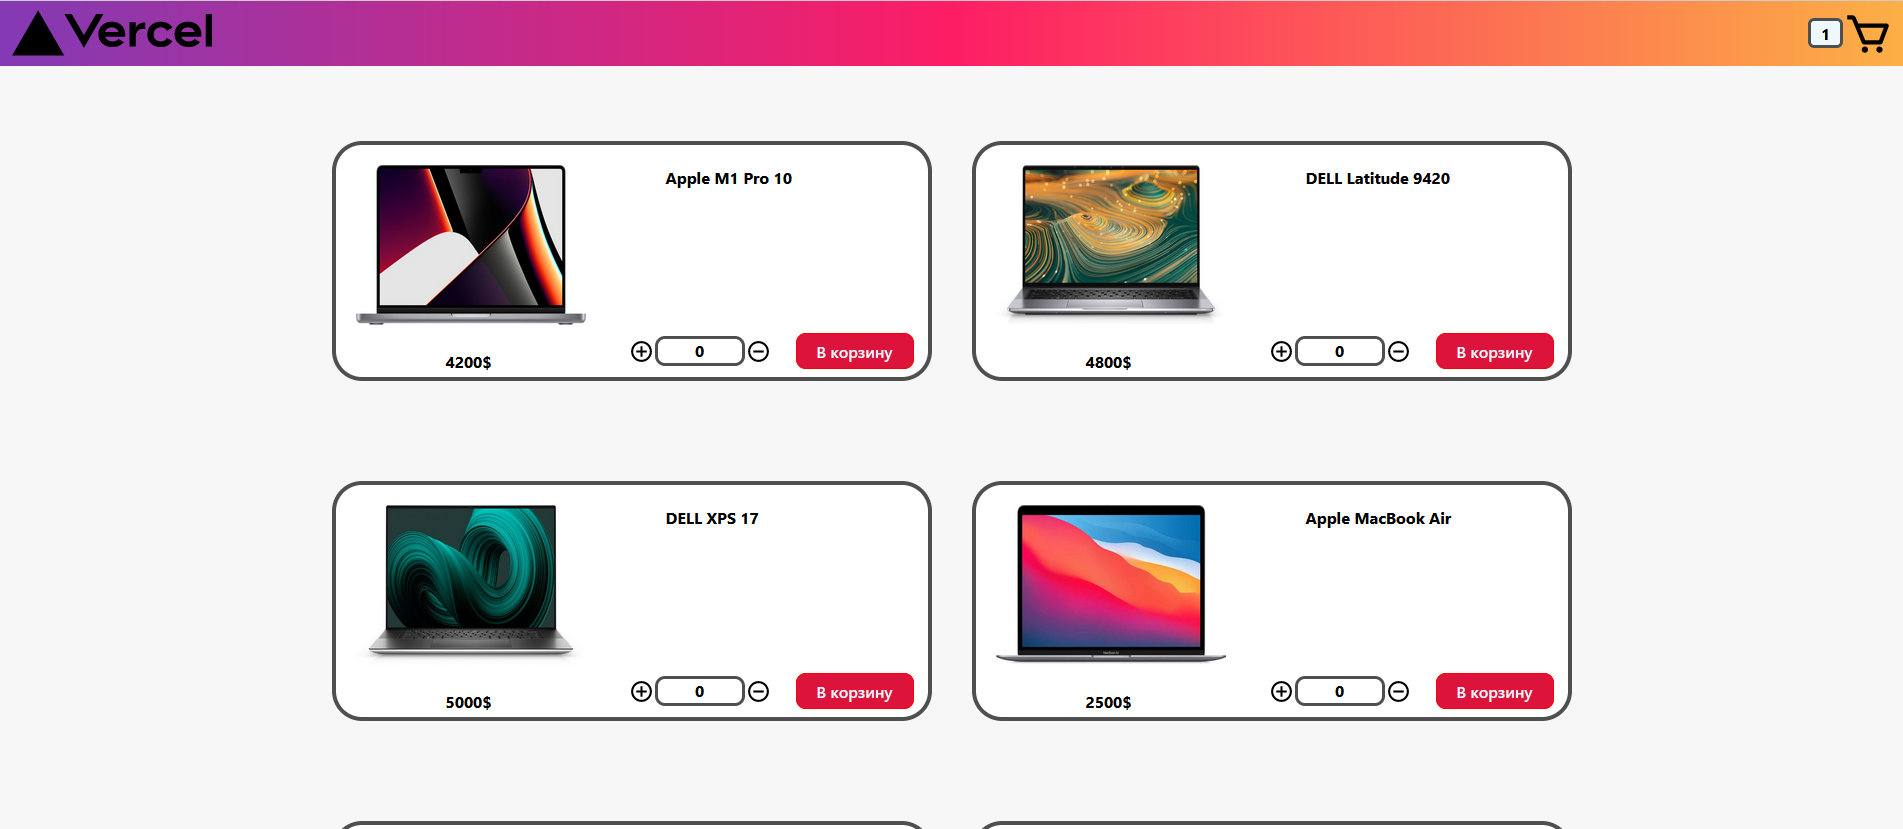
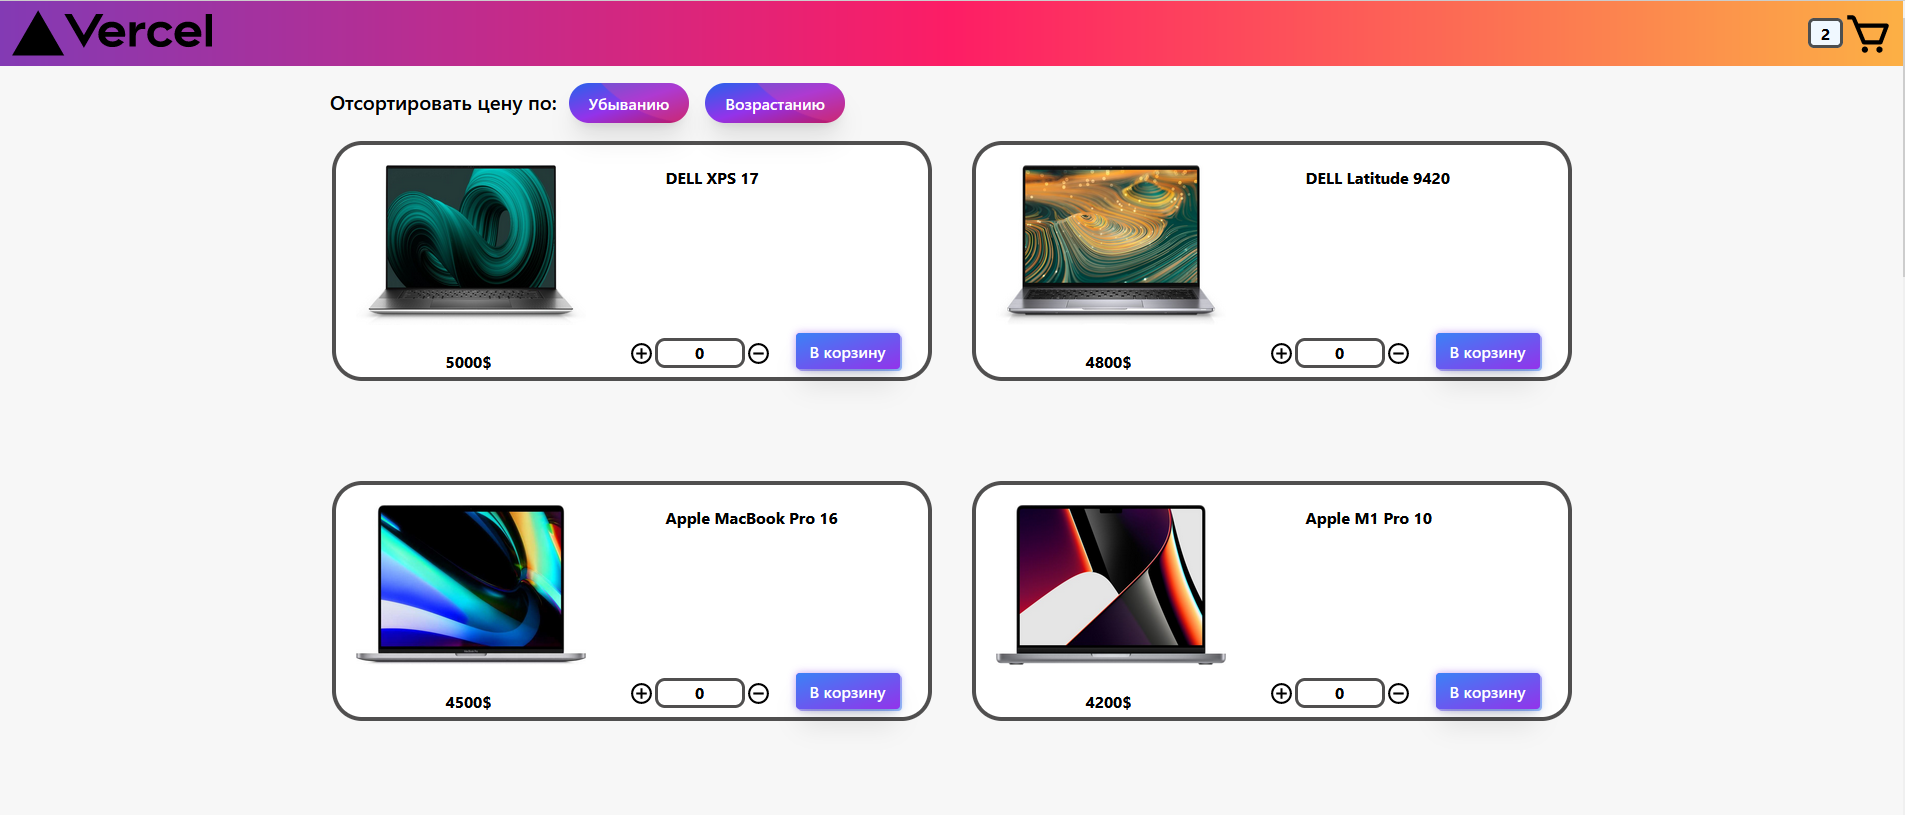
redesign

diff --git a/src/components/Header/Header.tsx b/src/components/Header/Header.tsx
@@ -20,28 +20,46 @@ const Header: FC = () => {
   const total: number = cart.reduce((acc, item) => acc + item.price * item.count, 0)
 
   return (
-    <div className='header-wrap'>
-      <div className='header-logo-wrap'>
-        <img src={logoImg} alt="logo"/>
+    <div className="header-wrap">
+      <div className="header-logo-wrap">
+        <img src={logoImg} alt="logo" />
       </div>
-      <button onClick={() => {setIsCartShow(!isCartShow)}} className='cartBtn'>
-        <img src={cartImg}/>
-        <div className='cart-length'>{cart.length}</div>
+      <button
+        onClick={() => {
+          setIsCartShow(!isCartShow);
+        }}
+        className="cartBtn"
+      >
+        <img src={cartImg} />
+        <div className="cart-length">{cart.length}</div>
       </button>
       <div className={isCartShow ? "hidden" : "active-cart"}>
         {cart.map((item) => (
           <div key={`cart item ${item.name}`} className="cart-items">
             <div className="cart-name">{item.name}</div>
             <div className="cart-img">
-              <img
-                src={item.imagePath}
-                alt={item.name}/>
+              <img src={item.imagePath} alt={item.name} />
             </div>
-            <div className='cart-count'>{`${item.price}$ x ${item.count}`}</div>
-            <button onClick={() => removeHandler(item._id)} className='cart-delete-btn'>Удалить</button>
+            <div className="cart-count">{`${item.price}$ x ${item.count}`}</div>
+            <button
+              onClick={() => removeHandler(item._id)}>
+              <a
+                href="#_"
+                className="relative left-2 bottom-2.5 px-4 py-1 font-semibold text-white group">
+                <span className="absolute inset-0 w-full h-full transition-all duration-300 ease-out transform translate-x-0 -skew-x-12 bg-purple-500 group-hover:bg-purple-700 group-hover:skew-x-12"></span>
+                <span className="absolute inset-0 w-full h-full transition-all duration-300 ease-out transform skew-x-12 bg-purple-700 group-hover:bg-purple-500 group-hover:-skew-x-12"></span>
+                <span className="absolute bottom-0 left-0 hidden w-10 h-20 transition-all duration-100 ease-out transform -translate-x-8 translate-y-10 bg-purple-600 -rotate-12"></span>
+                <span className="absolute bottom-0 right-0 hidden w-10 h-20 transition-all duration-100 ease-out transform translate-x-10 translate-y-8 bg-purple-400 -rotate-12"></span>
+                <span className="relative">Удалить</span>
+              </a>
+            </button>
           </div>
         ))}
-        <div className={isCartShow || cart.length == 0 ? "hidden" : 'total-cart'}>Итого: {total}$</div>
+        <div
+          className={isCartShow || cart.length == 0 ? "hidden" : "total-cart"}
+        >
+          Итого: {total}$
+        </div>
       </div>
     </div>
   );

diff --git a/src/components/Content/Content.tsx b/src/components/Content/Content.tsx
@@ -24,22 +24,23 @@ const Content:FC = () => {
     <>
       <div className="content-wrap">
         <div className="sort-btn-wrapper">
+          <span className='relative bottom-2 font-semibold text-xl mr-3'>Отсортировать цену по:</span>
           <button onClick={() => sortPriceHandler(content)} className='relative bottom-3'>
             <a
               href="#_"
-              className="font-semibold relative inline-flex items-center justify-center p-4 px-5 py-3 overflow-hidden text-indigo-600 transition duration-300 ease-out rounded-full shadow-xl group hover:ring-1 hover:ring-purple-500">
+              className="font-semibold leading-4 top-1 relative inline-flex items-center justify-center p-4 px-5 py-3 overflow-hidden text-indigo-600 transition duration-300 ease-out rounded-full shadow-xl group hover:ring-1 hover:ring-purple-500">
               <span className="absolute inset-0 w-full h-full bg-gradient-to-br from-blue-600 via-purple-600 to-pink-700"></span>
               <span className="absolute bottom-0 right-0 block w-64 h-64 mb-32 mr-4 transition duration-500 origin-bottom-left transform rotate-45 translate-x-24 bg-pink-500 rounded-full opacity-30 group-hover:rotate-90 ease"></span>
-              <span className="relative text-white">По убыванию</span>
+              <span className="relative text-white">Убыванию</span>
             </a>
           </button>
           <button onClick={() => sortLowerPriceHandler(content)} className='relative bottom-3 ml-4 '>
             <a
               href="#_"
-              className="font-semibold relative inline-flex items-center justify-center p-4 px-5 py-3 overflow-hidden text-indigo-600 transition duration-300 ease-out rounded-full shadow-xl group hover:ring-1 hover:ring-purple-500">
+              className="font-semibold leading-4 top-1 relative inline-flex items-center justify-center p-4 px-5 py-3 overflow-hidden text-indigo-600 transition duration-300 ease-out rounded-full shadow-xl group hover:ring-1 hover:ring-purple-500">
               <span className="absolute inset-0 w-full h-full bg-gradient-to-br from-blue-600 via-purple-600 to-pink-700"></span>
               <span className="absolute bottom-0 right-0 block w-64 h-64 mb-32 mr-4 transition duration-500 origin-bottom-left transform rotate-45 translate-x-24 bg-pink-500 rounded-full opacity-30 group-hover:rotate-90 ease"></span>
-              <span className="relative text-white ">По возрастанию</span>
+              <span className="relative text-white ">Возрастанию</span>
             </a>
           </button>
         </div>

diff --git a/src/components/Header/Header.css b/src/components/Header/Header.css
@@ -53,16 +53,18 @@
 
 .cart-img {
   margin-top: 10px;
-  width: 50px;
-  height: 50px;
+  width: 70px;
 }
 
 .cart-items {
   position: relative;
-  top: 79px;
-  padding: 0px 25px;
-  border-radius: 6px;
-  box-shadow: 4px 0px 4px #a9a5a590;
+  top: 65px;
+  width: 180px;
+  border: 3px solid rgba(42, 42, 42, 0.819);
+  border-radius: 10px;
+  background-color: #fff;
+  padding: 0px 2px;
+  margin-bottom: 3px;
 }
 
 .cart-name {
@@ -77,21 +79,21 @@
   background-color: #fff;
   width: 137px;
   position: relative;
-  top: 70px;
-  left: 34px;
+  top: 65px;
 }
 
 .cart-count {
   position: relative;
-  left: 50px;
-  bottom: 50px;
-  font-weight: 600;
+  left: 75px;
+  bottom: 35px;
+  font-weight:700;
 }
 
 .cart-delete-btn {
   font-weight: 600;
   position: relative;
-  bottom: 25px;
+  bottom: 10px;
+  left: 10px;
   padding: 2px 10px;
   border: 1px solid white;
   border-radius: 8px;

diff --git a/src/store/cart/content-reducer.ts b/src/store/cart/content-reducer.ts
@@ -75,7 +75,7 @@ const initialState: CartItem[] = [
   {
     name: "Lenovo ThinkPad",
     imagePath: "https://items.s1.citilink.ru/1428333_v01_b.jpg",
-    price: 4800,
+    price: 3800,
     _id: '1231212',
     count: 1,
   },
@@ -108,9 +108,9 @@ const initialState: CartItem[] = [
     count: 1,
   },
   {
-    name: "Apple M1 Pro 10",
-    imagePath: "https://items.s1.citilink.ru/1624466_v01_b.jpg",
-    price: 4200,
+    name: "Lenovo Yoga 7",
+    imagePath: "https://items.s1.citilink.ru/1611881_v01_b.jpg",
+    price: 2800,
     _id: 'vcvcvcv',
     count: 1,
   },
